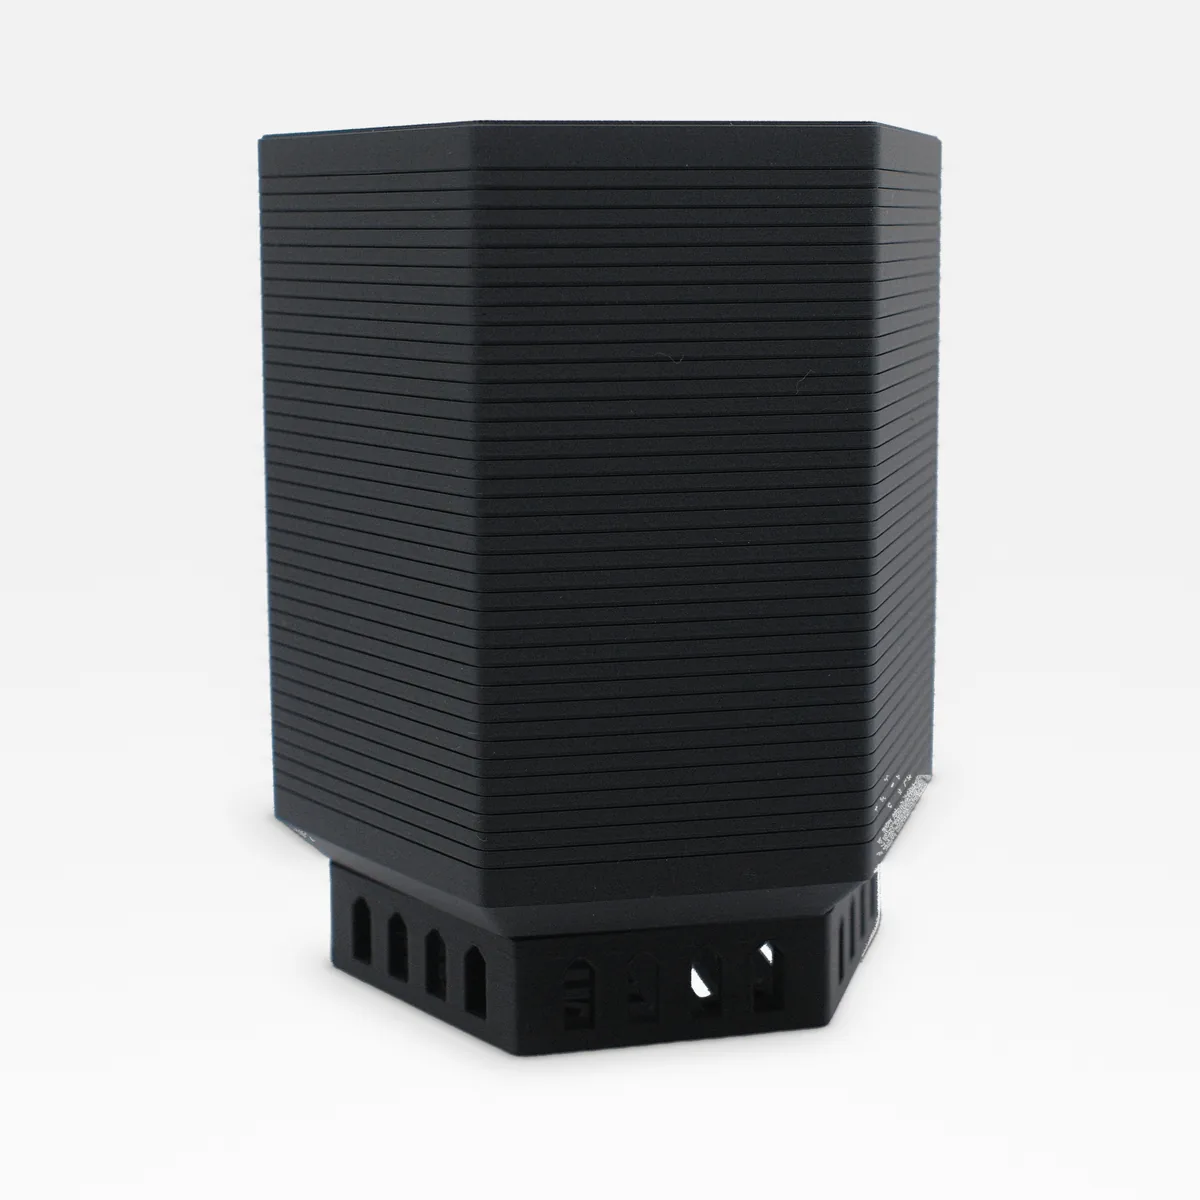
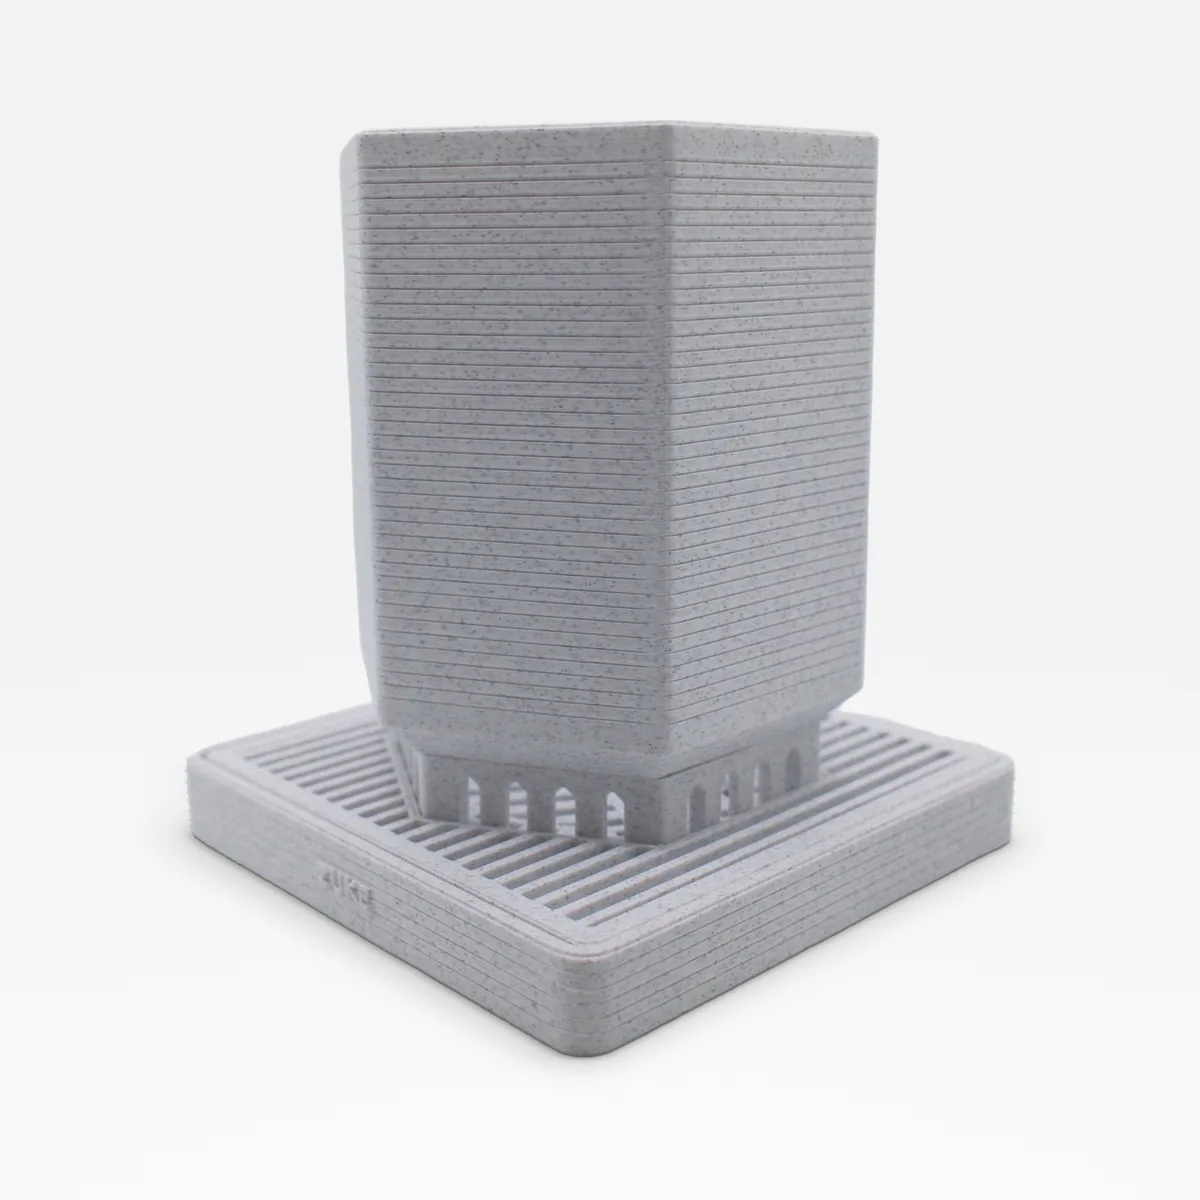
HEX POT LEAN の商品名・色・写真を公開ページの最新に合わせる
21: 52Z の BASE は商品名が HEX POT LEAN、色は受注生産の3色、写真は5枚になっていた。説明文と BOLD からの案内文は公開ページの文言のままにする。

diff --git a/app/lib/products.ts b/app/lib/products.ts
@@ -587,20 +587,21 @@ export const PRODUCTS: Product[] = [
     ],
   },
   {
-    // 2026-11-19 新商品: 六角スリット鉢セット（slug hexpot-lean・BASE 166191532）。増澤さん承認（「LEANも出して良い」）。
-    // 商品名は BASE の公開名のまま（「HEX POT LEAN」とは呼ばない）。価格・色・説明文は公開ページと同一。
-    // 色はブラック（受注生産）とホワイトマーブル（受注生産）のみ。ライトグレー・オレンジ・半透明ライトブルー・ホワイトは載せない。
-    // 写真は添付の9枚を、BASE 公開ページに出ている順（黒の正面・斜め・手持ち → 白マーブル6枚）に並べる。
-    // 公開ページ先頭の黒4枚（受け皿に乗せたカット、格子の単品、分解、受け皿と底部）は添付に無かったので載せていない。
+    // 2026-11-19 新商品: HEX POT LEAN（slug hexpot-lean・BASE 166191532）。増澤さん承認（「LEANも出して良い」）。
+    // 21:42Z の公開名は「六角スリット鉢セット｜本体・外せる底部・格子付き受け皿」だったが、21:52Z の再確認で
+    // 公開名が HEX POT LEAN に変わったので、公開ページを正にする。価格・説明文は変わっていない。
+    // 色は公開ページの3色（ブラック／ホワイトマーブル／半透明ライトブルー、いずれも受注生産）。
+    // ライトグレー・オレンジ・ホワイトは無い。半透明ライトブルーの写真は添付に無く、公開ページにも無いので載せない。
+    // 写真は公開ページに残っている5枚（白マーブル正面、黒斜め、白真上、白の格子と受け皿、白の底部）の順。
     // 支柱の差込口は無いので、カテゴリ pot の既定 title は使わず shortTitle を指定。卸の条件は未定。
     slug: "hexpot-lean",
     kind: "pla",
     category: "pot",
     isNew: true,
     notWholesale: true,
-    name: "六角スリット鉢セット｜本体・外せる底部・格子付き受け皿",
-    fullName: "六角スリット鉢セット｜本体・外せる底部・格子付き受け皿",
-    shortTitle: "六角スリット鉢セット {price}｜本体・外せる底部・格子付き受け皿",
+    name: "HEX POT LEAN",
+    fullName: "HEX POT LEAN",
+    shortTitle: "HEX POT LEAN {price}｜本体・外せる底部・格子付き受け皿",
     price: 3780,
     image: "/products/product-hexpot-lean-base.webp",
     ogImage: "/products/product-hexpot-lean-og-wide.jpg",
@@ -609,13 +610,13 @@ export const PRODUCTS: Product[] = [
     ogImageSquare: "/products/product-hexpot-lean-og.jpg",
     baseUrl: `${SHOP}/items/166191532`,
     summary:
-      "3Dプリントで作った六角形のスリット鉢。本体・外せる底部・格子付き受け皿の3つのセットです。本体は対辺90mm・高さ100mm、受け皿を含むセットの高さは134mm。ブラック（受注生産）／ホワイトマーブル（受注生産）。ご注文から7日以内に発送します。",
+      "3Dプリントで作った六角形のスリット鉢。本体・外せる底部・格子付き受け皿の3つのセットです。本体は対辺90mm・高さ100mm、受け皿を含むセットの高さは134mm。ブラック（受注生産）／ホワイトマーブル（受注生産）／半透明ライトブルー（受注生産）。ご注文から7日以内に発送します。",
     lead:
       "3Dプリントで作った六角形のスリット鉢です。本体、外せる底部、格子付きの受け皿の3つがセットになっています。",
     height: "本体 100mm／受け皿を含むセット 134mm",
     width: "本体 対辺90mm",
     material: "3Dプリント",
-    colorNames: ["ブラック（受注生産）", "ホワイトマーブル（受注生産）"],
+    colorNames: ["ブラック（受注生産）", "ホワイトマーブル（受注生産）", "半透明ライトブルー（受注生産）"],
     details: [
       {
         heading: "サイズ",
@@ -647,20 +648,16 @@ export const PRODUCTS: Product[] = [
       },
     ],
     gallery: [
-      { src: "/products/hexpot-lean/01-black-front.webp", alt: "六角スリット鉢セット（ブラック）の本体を正面から見たところ" },
-      { src: "/products/hexpot-lean/02-black-angle.webp", alt: "六角スリット鉢セット（ブラック）の本体を斜めから見たところ" },
-      { src: "/products/hexpot-lean/03-black-handheld.webp", alt: "六角スリット鉢セット（ブラック）の本体を手に持ったところ" },
-      { src: "/products/hexpot-lean/04-whitemarble-front.webp", alt: "六角スリット鉢セット（ホワイトマーブル）を受け皿に乗せたところ" },
-      { src: "/products/hexpot-lean/05-whitemarble-saucer.webp", alt: "六角スリット鉢セット（ホワイトマーブル）の格子と受け皿" },
-      { src: "/products/hexpot-lean/06-whitemarble-side.webp", alt: "六角スリット鉢セット（ホワイトマーブル）の本体を横から見たところ" },
-      { src: "/products/hexpot-lean/07-whitemarble-top.webp", alt: "六角スリット鉢セット（ホワイトマーブル）を真上から見たところ。底の格子が見える" },
-      { src: "/products/hexpot-lean/08-whitemarble-bottom.webp", alt: "六角スリット鉢セット（ホワイトマーブル）の外せる底部" },
-      { src: "/products/hexpot-lean/09-whitemarble-grid.webp", alt: "六角スリット鉢セット（ホワイトマーブル）の格子付き受け皿を上から見たところ" },
+      { src: "/products/hexpot-lean/01-whitemarble-front.webp", alt: "HEX POT LEAN（ホワイトマーブル）を受け皿に乗せたところ" },
+      { src: "/products/hexpot-lean/02-black-angle.webp", alt: "HEX POT LEAN（ブラック）の本体を斜めから見たところ" },
+      { src: "/products/hexpot-lean/03-whitemarble-top.webp", alt: "HEX POT LEAN（ホワイトマーブル）を真上から見たところ。底の格子が見える" },
+      { src: "/products/hexpot-lean/04-whitemarble-saucer.webp", alt: "HEX POT LEAN（ホワイトマーブル）の格子と受け皿" },
+      { src: "/products/hexpot-lean/05-whitemarble-bottom.webp", alt: "HEX POT LEAN（ホワイトマーブル）の外せる底部" },
     ],
     plants: ["支柱を差さずに育てる株"],
     scenes: [
       "対辺90mm・高さ100mmの六角形の鉢を、格子付きの受け皿に乗せる",
-      "ブラック（受注生産）とホワイトマーブル（受注生産）から選ぶ",
+      "ブラック（受注生産）、ホワイトマーブル（受注生産）、半透明ライトブルー（受注生産）から選ぶ",
     ],
   },
   {
@@ -1253,7 +1250,7 @@ export const CATEGORIES: { key: CategoryKey; label: string; lead: string }[] = [
   { key: "climb", label: "登り棒", lead: "水苔やネコチップを詰めて、気根を這わせて育てる六角形の登り棒（モス支柱）。専用の六角鉢に挿して自立します。" },
   // 2026-10-18 増澤さん「LPに新しくハンギングカテゴリを追加」
   { key: "hanging", label: "ハンギング", lead: "S字フックで吊るして、水苔で着生植物を育てる六角形のハンギング鉢。" },
-  { key: "pot", label: "鉢・セット", lead: "支柱の差込口付き六角鉢と受け皿、支柱とのセット。差込口のない六角形のスリット鉢「HEX POT BOLD」と「六角スリット鉢セット」も。" },
+  { key: "pot", label: "鉢・セット", lead: "支柱の差込口付き六角鉢と受け皿、支柱とのセット。差込口のない六角形のスリット鉢「HEX POT BOLD」と「HEX POT LEAN」も。" },
   { key: "extension", label: "支柱の拡張", lead: "六角形を継ぎ足して、植物の成長に合わせて高さを伸ばすパーツ。対応するのは樹脂版PLANTS POLE（1つ/2つ/3つの六角形）のみで、鉄製PLANTS POLEには使えません。支柱の辺と六角形の辺を並べ、留め具でパチッと挟むだけ。六角形パーツ1つにつき高さ約72mm（7.2cm）伸ばせるので、1連→2連→3連と後から育てていけます。" },
   { key: "tool", label: "園芸道具", lead: "小鉢の植え替え・土入れに使う、3Dプリント製の小さな道具。" },
 ];

diff --git a/app/lib/colors.ts b/app/lib/colors.ts
@@ -40,9 +40,9 @@ const SOLD_COLORS: Record<string, ColorKey[]> = {
   hexwallpot: [],
   hexwallplate: [],
   "hex-set-2pcs": [],
-  // 2026-11-19 HEX POT BOLD と六角スリット鉢セット（hexpot-lean）はホワイトマーブル／ブラック（受注生産）。
-  // COLORS に「ホワイトマーブル」が無いので色ボタンは出さず、商品ページの「写真」欄（gallery）に BASE と同じ順で並べる。
-  // ライトグレー・オレンジ・ホワイト・半透明ライトブルーは販売していない。
+  // 2026-11-19 HEX POT BOLD はホワイトマーブル／ブラック。HEX POT LEAN（hexpot-lean）はブラック／ホワイトマーブル／半透明ライトブルー。
+  // いずれも受注生産。COLORS に「ホワイトマーブル」「半透明ライトブルー」が無いので色ボタンは出さず、
+  // 商品ページの「写真」欄（gallery）に BASE と同じ順で並べる。ライトグレー・オレンジ・ホワイトは販売していない。
   "hexpot-bold": [],
   "hexpot-lean": [],
 };
@@ -62,7 +62,7 @@ const NO_PHOTO_COLORS: Record<string, ColorKey[]> = {
   "hexwall-set": ["black", "white", "orange", "lightgray"],
   hexwallpot: ["black", "white", "orange", "lightgray"],
   hexwallplate: ["black", "white", "orange", "lightgray"],
-  // 2026-11-19 HEX POT BOLD / 六角スリット鉢セットは色別の一覧用写真を作っていない（色名もホワイトマーブル）。一覧で色を押しても1枚目のまま
+  // 2026-11-19 HEX POT BOLD / HEX POT LEAN は色別の一覧用写真を作っていない（色名もホワイトマーブルなど）。一覧で色を押しても1枚目のまま
   "hexpot-bold": ["black", "white", "orange", "lightgray"],
   "hexpot-lean": ["black", "white", "orange", "lightgray"],
 };
